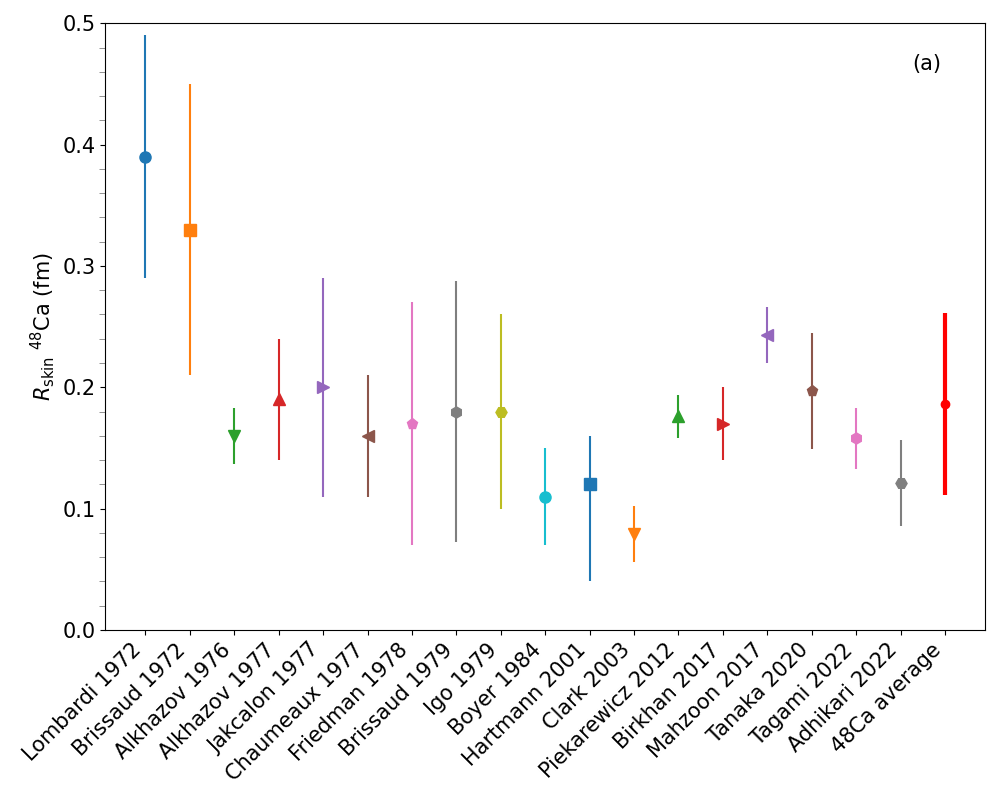
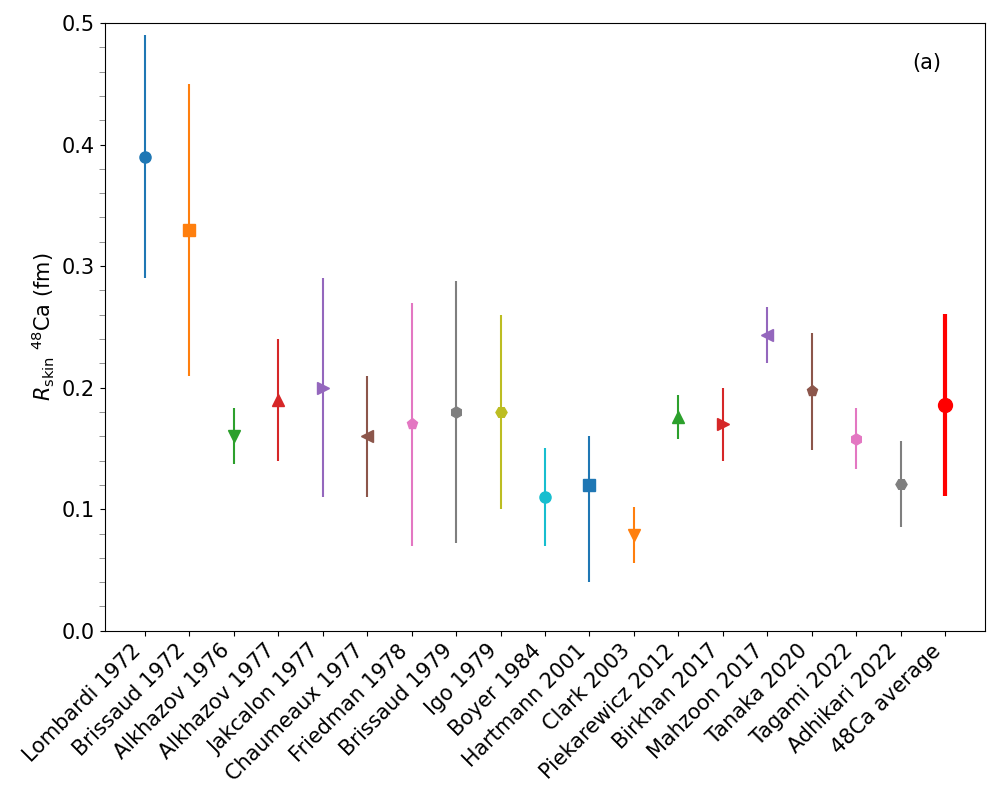
update

diff --git a/version1.0/nucleardatapy_samples/plots/plot_nuc_setupNeutronSkinTheo.py b/version1.0/nucleardatapy_samples/plots/plot_nuc_setupNeutronSkinTheo.py
@@ -103,8 +103,8 @@ def plot_neutron_skin_for_each_source_and_param():
         nsav = nuda.nuc.setupNeutronSkinAverage(source=source)
         if nsav.nskin_cen is not None:
             ax.errorbar(len(labels), nsav.nskin_cen, yerr=nsav.sig_std, label=nsav.label, 
-                       color='red', marker='o', markersize=12, linestyle='solid', linewidth=3)           
-        labels.append(nsav.label)
+                       color='k', marker='o', markersize=10, linestyle='solid', linewidth=3)           
+        # labels.append(nsav.label)
 
         for i, (x, y, marker, color) in enumerate(zip(xtheo, combined_rskin, combined_markers, combined_colors)):
             ax.plot(x, y, marker=marker, markersize=8, color=color)

diff --git a/version1.0/nucleardatapy_samples/plots/plot_nuc_setupNeutronSkinExp.py b/version1.0/nucleardatapy_samples/plots/plot_nuc_setupNeutronSkinExp.py
@@ -89,7 +89,7 @@ def plot_neutron_skin_for_each_source():
         # print('label:', nsav.label)
         if nsav.nskin_cen is not None:
             ax.errorbar(len(labels), nsav.nskin_cen, yerr=nsav.sig_std, label=nsav.label, 
-                       color='red', marker='o', linestyle='solid', linewidth=3)        
+                       color='red', marker='o', markersize=10, linestyle='solid', linewidth=3)        
         labels.append(nsav.label)
         # Fixed y-axis configuration
         ax.set_ylim([0, 0.5])  # Fixed scale from 0 to 0.5 on the y-axis
